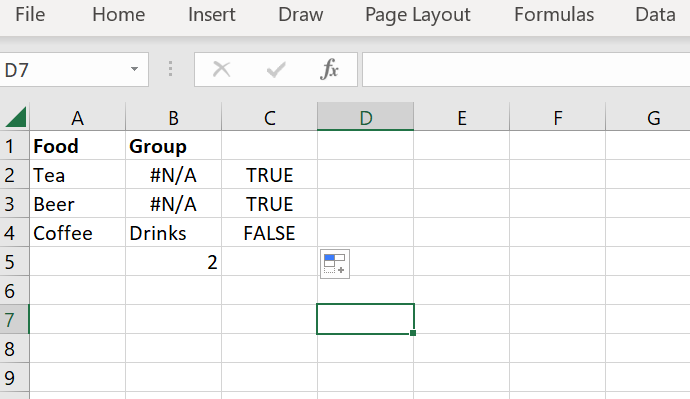
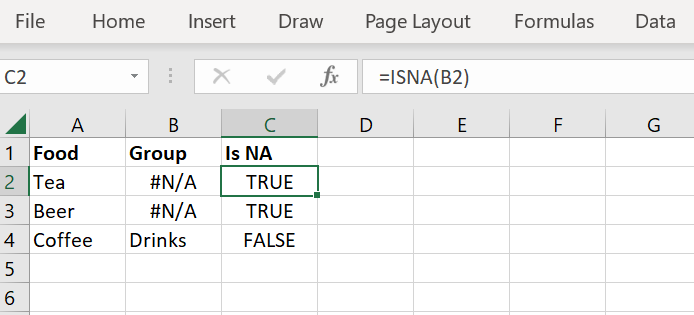
typos

Changed region(s): [[0.0, 0.0, 1.0, 1.0]]

diff --git a/data/data_01_index.md b/data/data_01_index.md
@@ -57,7 +57,7 @@ It is important to note that ratio data allows for meaningful statement about th
 
 ### Calculations and visualization methods on different data types
 
-It is not possible to perferm all types of calculations, comparisons and visualizations on all data types. As explained above, you can not perform ratio comparisons on interval data. Obviously, you can not (directly) create bar graphs or histograms on nominal or ordinal data. However, you can calculate frequencies and a proportion (by dividing the frequency by the total number of events) on nominal and ordinal data. Proper visualisations of nominal and ordinal data are Pie Charts and Bar Charts. Because nominal data is categorical data that can take on a limited number of values that don't have an inherent order or numerical meaning, some types of visualizations that are used to represent quantitative data, such as continuous data, are not suitable for representing nominal data. 
+It is not possible to perform all types of calculations, comparisons and visualizations on all data types. As explained above, you can not perform ratio comparisons on interval data. Obviously, you can not (directly) create bar graphs or histograms on nominal or ordinal data. However, you can calculate frequencies and a proportion (by dividing the frequency by the total number of events) on nominal and ordinal data. Proper visualisations of nominal and ordinal data are Pie Charts and Bar Charts. Because nominal data is categorical data that can take on a limited number of values that don't have an inherent order or numerical meaning, some types of visualizations that are used to represent quantitative data, such as continuous data, are not suitable for representing nominal data. 
 
 Some examples of visualization types that are not suitible on certain data types are listed below:
 
@@ -89,7 +89,7 @@ Some examples of visualization that are not suitable for discrete data are:
 
 - Histogram: Histograms are used to represent the distribution of continuous variables, so it is not suitable for discrete data. 
 
-These are some examples, but there are many other visualizations that can be used to represent discrete data. Examples of visualizations that are well suited for discrete data include bar charts, dot plots, pie charts, and stacked bar charts. These visualizations can help to effectively display the frequency or count of specific values in a dataset.
+These are some examples of visualizations that are not suitable for discrete data, but there are many other visualizations that can be used to represent discrete data. Examples of visualizations that are well suited for discrete data include bar charts, dot plots, pie charts, and stacked bar charts. These visualizations can help to effectively display the frequency or count of specific values in a dataset.
 
 **Continous data**
 

diff --git a/excel/excel_05_data_cleaning.md b/excel/excel_05_data_cleaning.md
@@ -145,7 +145,7 @@ Likewise, it is also possible to count the `#N/A` values:
 ![count na](./pics_05_data_cleaning/fig18.png)
 *<sub>Figure 18: Counting #N/A cells.</sub>*
 
-Or check if they are equal to #N/A:
+Or check if they are equal to #N/A using the `ISNA` function:
 
 ![count na](./pics_05_data_cleaning/fig19.png)
 *<sub>Figure 19: Validate if cell equals #N/A.</sub>*
